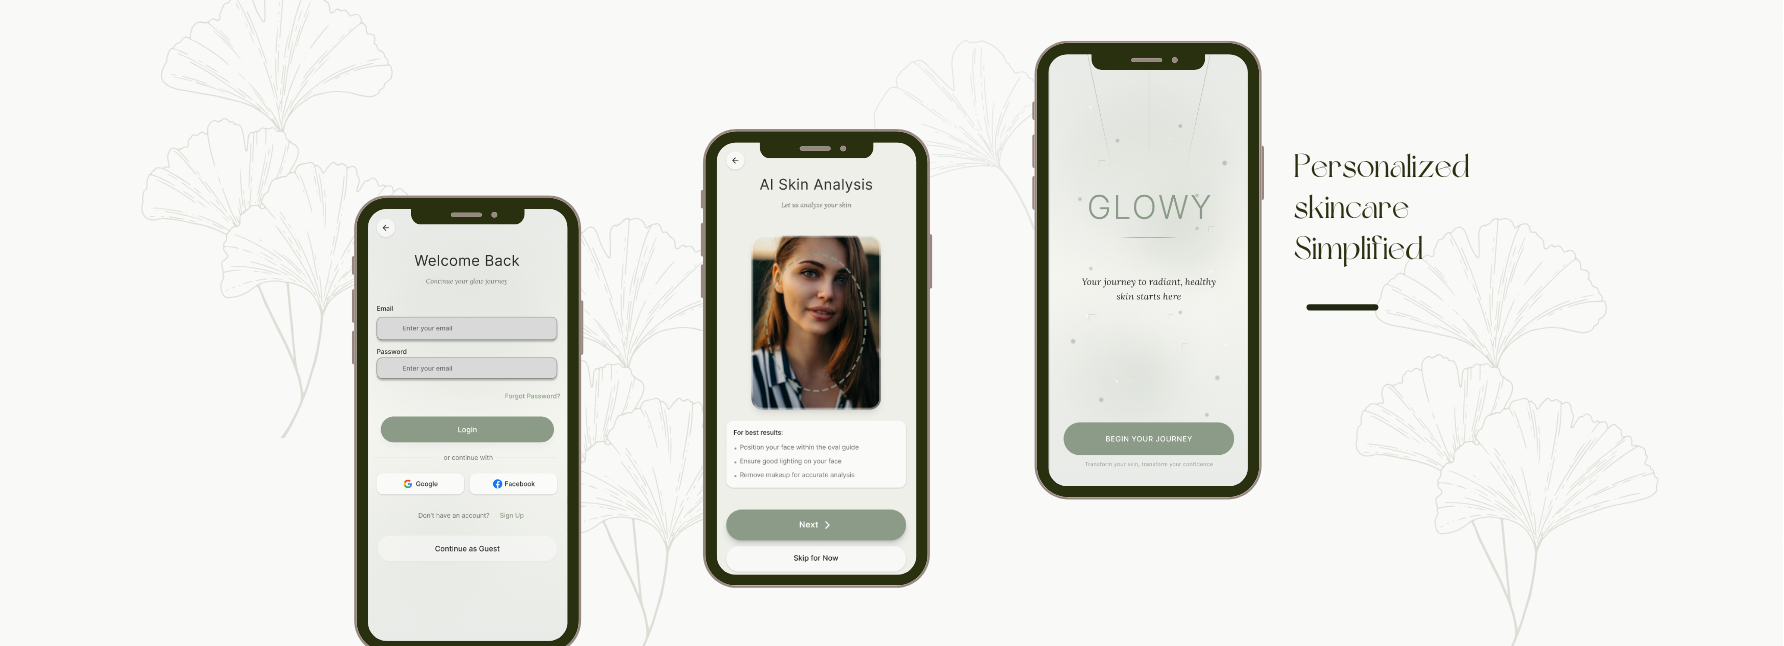
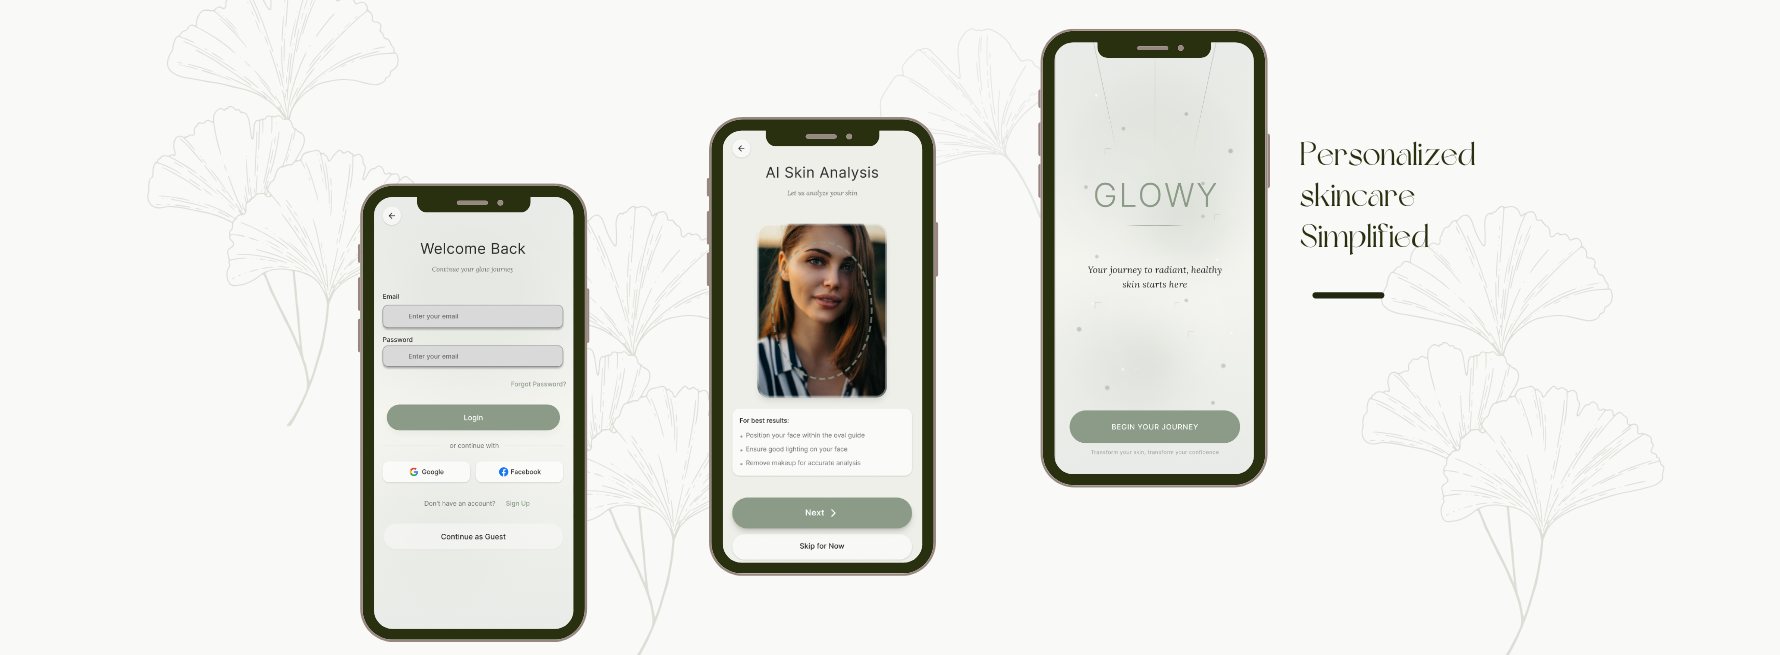
update post pictur and resume pdf

Changed region(s): [[0.1545, 0.1548, 0.5253, 1.0], [0.5562, 0.031, 0.8343, 0.774], [0.8343, 0.805, 0.8652, 0.9288]]

diff --git a/src/app/components/HomePage.tsx b/src/app/components/HomePage.tsx
@@ -25,8 +25,7 @@ export default function HomePage() {
       title: "Urban Escape Tours: Website Redesign",
       description: "Modern travel platform with intuitive search and booking flow, increasing conversions by 45%.",
       tags: ["Web Design", "UI/UX", "Responsive Design"],
-      image: "/images/urbanEscape/HomeTop.png",
-      video: "/images/urbanEscape/intoVideo.mp4",
+      image: "/images/urbanEscape/Post.png",
       screenshots: [
         "/images/urbanEscape/HomeTop.png",
         "/images/urbanEscape/Detail.png",